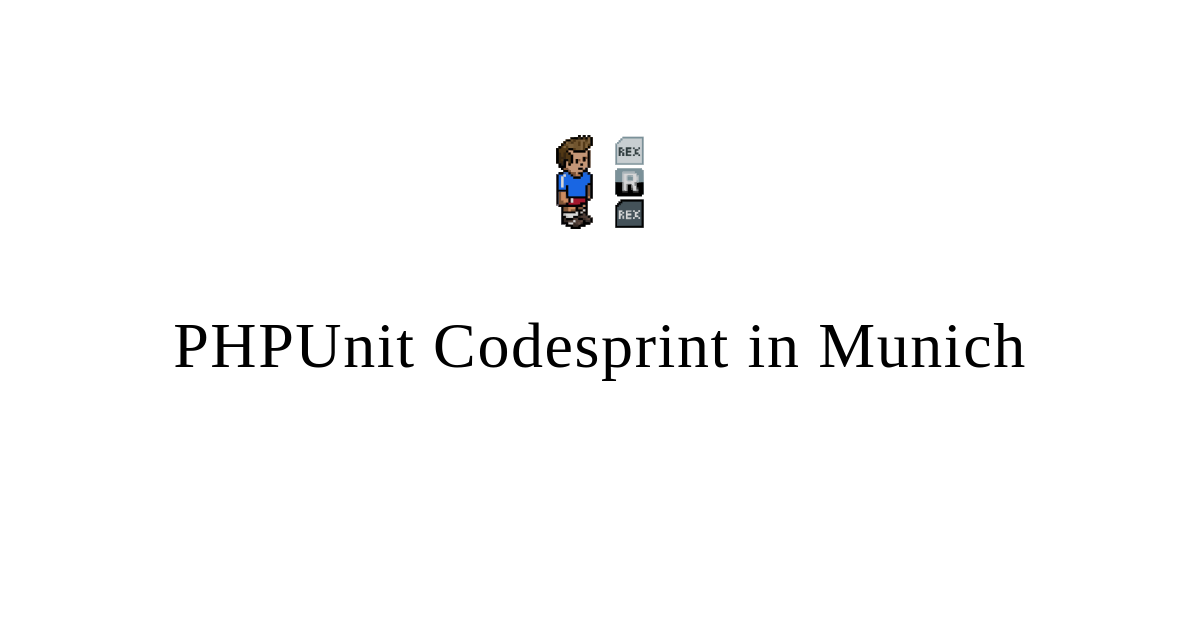
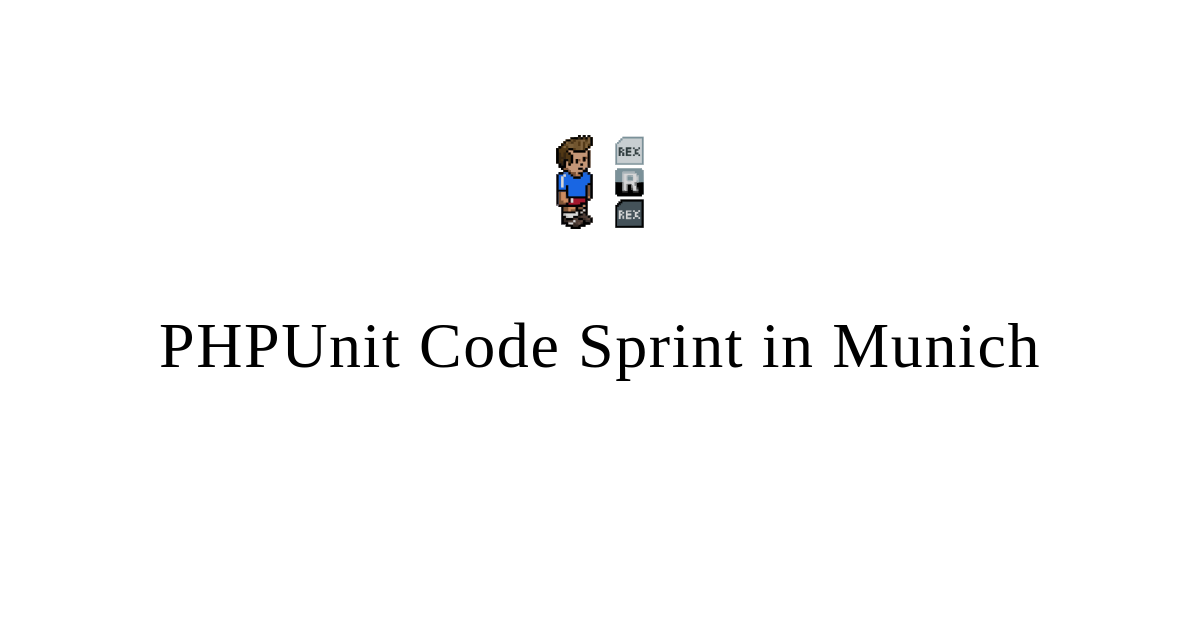
fix typo (#117)

Changed region(s): [[0.1233, 0.5127, 0.8633, 0.6032]]

diff --git a/_posts/2024-10-19-phpunit-codesprint-munich.md b/_posts/2024-10-19-phpunit-codesprint-munich.md
@@ -5,16 +5,16 @@ tags:
 image: "images/og-images/phpunit-codesprint-munich.jpg"
 
 ogImage:
-    title: "PHPUnit Codesprint in Munich"
+    title: "PHPUnit Code Sprint in Munich"
     imageUrl: "https://staabm.github.io/staabm.svg"
     fileName: "phpunit-codesprint-munich"
 ---
 
 
-In October 2024, I was part of a team of PHPUnit contributors who met in Munich for a codesprint at the office of [celebrate.company](https://www.celebrate.company/).
+In October 2024, I was part of a team of PHPUnit contributors who met in Munich for a Code Sprint at the office of [celebrate.company](https://www.celebrate.company/).
 We spent 2 days on discussing, coding and issue triage for the PHPUnit open source project together with Sebastian Bergmann, the creator of PHPUnit.
 
-<img src="https://media.phpc.social/media_attachments/files/113/334/784/242/183/071/original/b6f5598e204a00c5.jpeg" alt="PHPUnit Codesprint team in Munich" width="920">
+<img src="https://media.phpc.social/media_attachments/files/113/334/784/242/183/071/original/b6f5598e204a00c5.jpeg" alt="PHPUnit Code Sprint team in Munich" width="920">
 
 _From left to right: [Andreas Möller](https://phpc.social/@localheinz), myself, [Sebastian Heuer](https://phpc.social/@sebastianheuer), [Arne Blankerts](https://phpc.social/@theseer), Nicola Pilcher, and [Fabian](https://phpc.social/@Schrank).
 Photo by [Sebastian Bergmann](https://phpc.social/@sebastian)._
@@ -24,7 +24,7 @@ Since most of us never met or teamed up before, it was a great way to share know
 
 We got a lot of stuff done, and it was a awesome event. I am looking forward to the next one.
 
-In the following I want to share the topics I worked on recently which got finalized during the codesprint.
+In the following I want to share the topics I worked on recently which got finalized during the Code Sprint.
 I am particular grateful that the team took the time to review and discuss my recently submitted pull requests.
 
 ### My Focus: Reduce overhead when running PHPT tests
@@ -98,7 +98,7 @@ The idea was proposed to Sebastian Bergmann who gave me a GO on integrating it i
 I spent a few more days on it to test it on some more real world examples and try to verify it will return the expected result.
 
 So in the end detecting situations in which it's fine to avoid to start subprocesses for `--SKIPIF--` and `--CLEAN--` sections of PHPT tests was a matter of 2 pull requests,
-which we reviewed with the PHPUnit codesprint team in Munich.
+which we reviewed with the PHPUnit Code Sprint team in Munich.
 
 - [PR #5998: Do not run `--SKIPIF--` section of PHPT test in separate process when not required](https://github.com/sebastianbergmann/phpunit/pull/5998)
 - [PR #5995: Do not run `--CLEAN--` section of PHPT test in separate process when it is free of side effects that modify the parent process](https://github.com/sebastianbergmann/phpunit/pull/5999)
